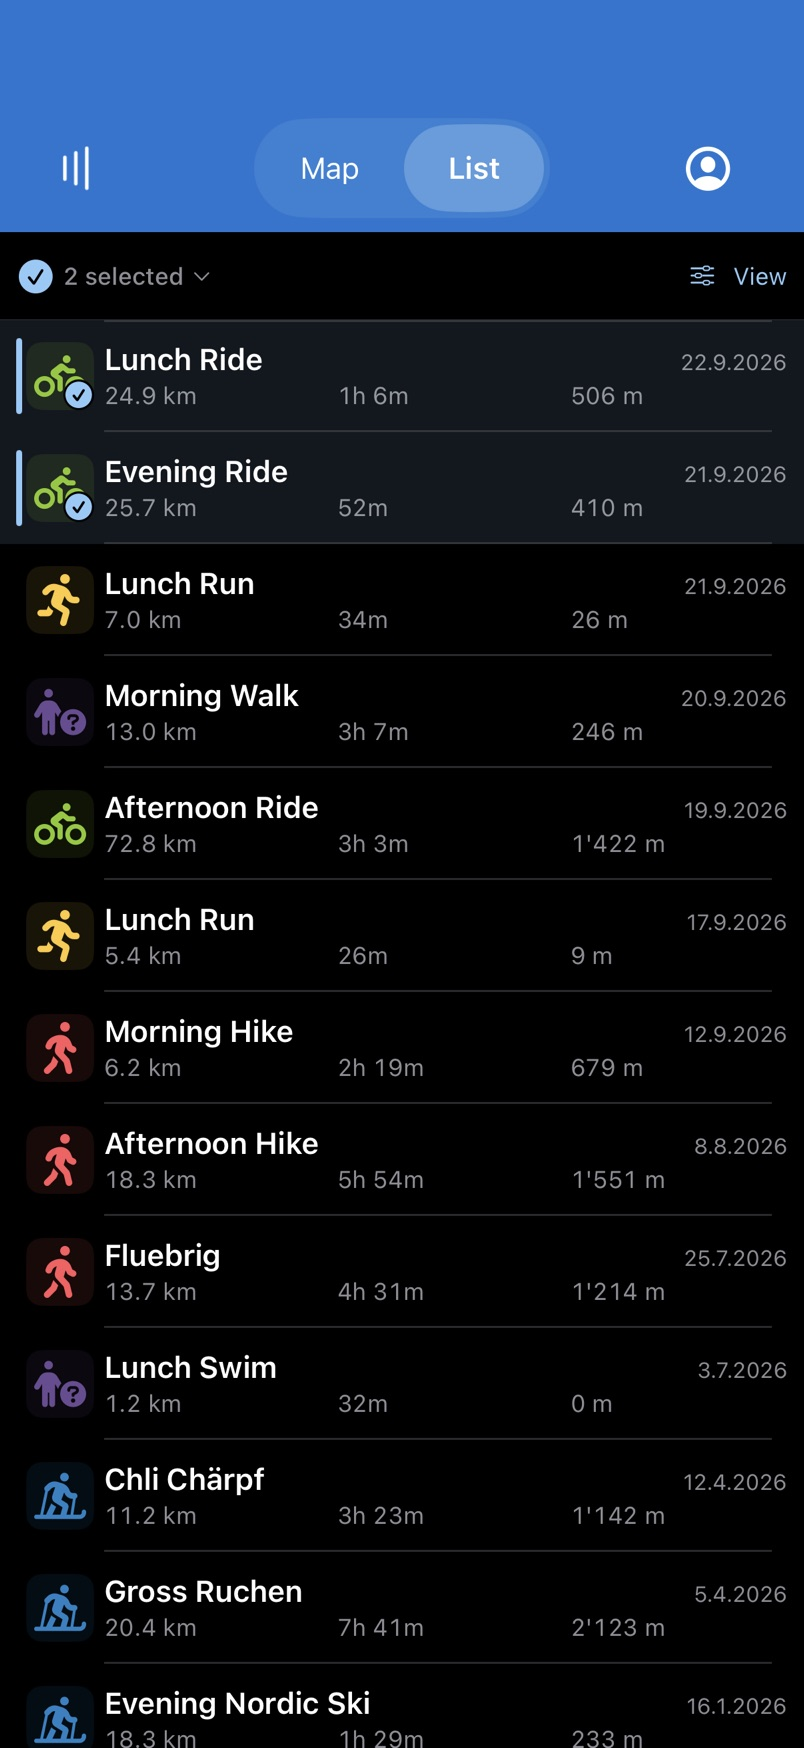
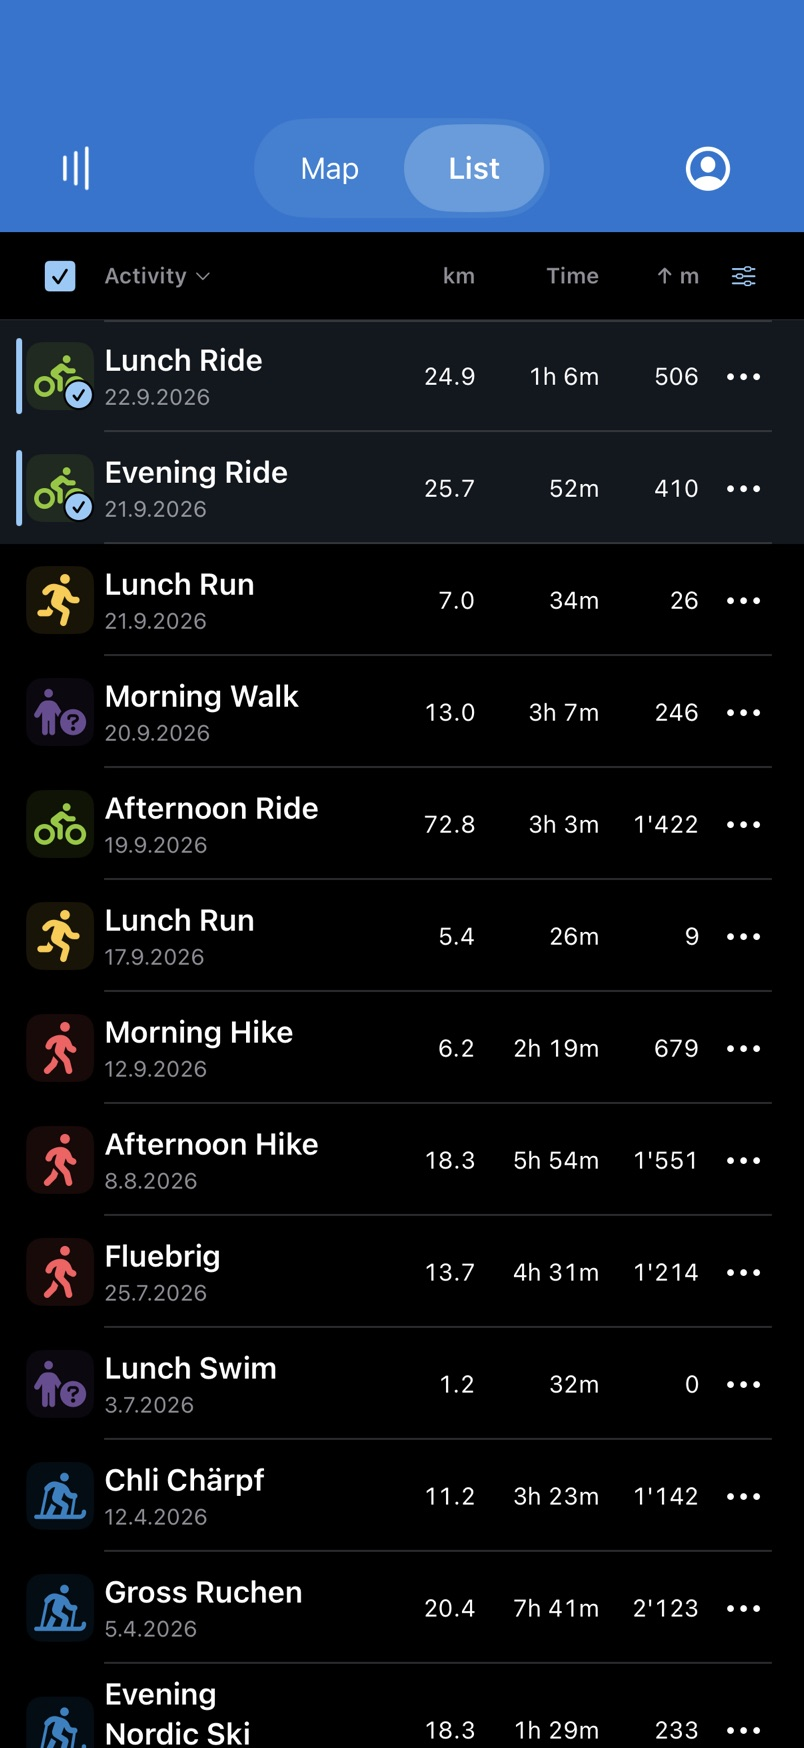
Restore direct column sorting on phone activity lists

diff --git a/ios/ActivityMap/ActivityMapTests/RenderedActivityListTests.swift b/ios/ActivityMap/ActivityMapTests/RenderedActivityListTests.swift
@@ -86,13 +86,11 @@ extension RenderedRoutePickingTests {
     }
 
     @Test(arguments: [375.0, 390.0, 402.0])
-    func phoneMetricChoicesUseRowsAndWideListsKeepColumns(width: Double) async throws {
+    func compactMetricPairsRetainTableColumns(width: Double) async throws {
         let presentation = ActivityListPresentation(defaults: nil)
-        #expect(!ActivityTableLayout.supports(presentation.settings, typeSize: .large, availableWidth: width))
-        #expect(ActivityTableLayout.supports(presentation.settings, typeSize: .large, availableWidth: 820))
+        #expect(ActivityTableLayout.supports(presentation.settings, typeSize: .large, availableWidth: width))
         presentation.settings.visibleMetrics = [.distance, .averageSpeed]
-        #expect(!ActivityTableLayout.supports(presentation.settings, typeSize: .large, availableWidth: width))
-        #expect(ActivityTableLayout.supports(presentation.settings, typeSize: .large, availableWidth: 820))
+        #expect(ActivityTableLayout.supports(presentation.settings, typeSize: .large, availableWidth: width))
         let store = ActivityStore(activities: try GalleryLibrary.load().activities, listPresentation: presentation)
         store.selectedTab = .list
         let host = try ListHarness(root: NavigationStack { ListScreen(store: store) },
@@ -108,28 +106,27 @@ extension RenderedRoutePickingTests {
         #expect(!ActivityTableLayout.supports(presentation.settings, typeSize: .large, availableWidth: width))
     }
 
-    @Test(arguments: [390.0, 820.0])
-    func listDisplaySheetSurvivesColumnLayoutChanges(width: Double) async throws {
+    @Test func listDisplaySheetSurvivesColumnLayoutChanges() async throws {
         let presentation = ActivityListPresentation(defaults: nil)
         let store = ActivityStore(activities: [ActivityStoreSelectionTests.activity(1)], listPresentation: presentation)
         store.selectedTab = .list
         let host = try ListHarness(root: NavigationStack {
             ListScreen(store: store, displayOpen: true)
-        }, size: CGSize(width: width, height: 844))
+        }, size: CGSize(width: 390, height: 844))
         defer { host.close() }
         try await listWait { host.host.presentedViewController != nil }
         let sheet = try #require(host.host.presentedViewController)
-        #expect(ActivityTableLayout.supports(presentation.settings, typeSize: .large, availableWidth: width) == (width >= 600))
-        presentation.settings.visibleMetrics = Set(ActivityListMetric.allCases)
+        #expect(ActivityTableLayout.supports(presentation.settings, typeSize: .large))
+        presentation.settings.visibleMetrics.insert(.maxPower)
         try await Task.sleep(for: .milliseconds(400))
-        #expect(!ActivityTableLayout.supports(presentation.settings, typeSize: .large, availableWidth: width))
+        #expect(!ActivityTableLayout.supports(presentation.settings, typeSize: .large))
         #expect(host.host.presentedViewController === sheet, "Changing header branch must retain the open display sheet")
         presentation.settings.visibleMetrics = []
         try await Task.sleep(for: .milliseconds(200))
         #expect(host.host.presentedViewController === sheet)
         presentation.settings.visibleMetrics = [.distance, .elapsedTime, .elevationGain]
         try await Task.sleep(for: .milliseconds(200))
-        #expect(ActivityTableLayout.supports(presentation.settings, typeSize: .large, availableWidth: width) == (width >= 600))
+        #expect(ActivityTableLayout.supports(presentation.settings, typeSize: .large))
         #expect(host.host.presentedViewController === sheet, "Restoring table columns must retain the same sheet")
         presentation.settings.width = .scrollingMetrics
         try await Task.sleep(for: .milliseconds(200))

diff --git a/ios/ActivityMap/ActivityMap/List/ListControls.swift b/ios/ActivityMap/ActivityMap/List/ListControls.swift
@@ -100,7 +100,7 @@ struct ListOptionsSheets: ViewModifier {
                             presentation.settings.width = .fitWidth
                         }
                     } header: { Text("Visible metrics") }
-                    footer: { Text("Name, sport and local date always stay visible. Fit Width uses compact name/date and metric rows on phones, and aligned columns on wider lists when the chosen metrics fit. Adding more metrics can switch to stacked rows. Scroll Metrics uses horizontally scrolling values in each row. Accessibility text uses stacked rows. Open Details to inspect hidden metrics.") }
+                    footer: { Text("Name, sport and local date always stay visible. Fit Width shows aligned sortable columns whenever the chosen metrics fit, including on phones. Adding more metrics can switch to stacked rows and remove the column headings. Scroll Metrics uses horizontally scrolling values in each row. Accessibility text uses stacked rows. Open Details to inspect hidden metrics.") }
                 }
                 .navigationTitle("List display")
                 .toolbar { ToolbarItem(placement: .confirmationAction) { Button("Done") { displayOpen = false } } }

diff --git a/ios/ActivityMap/ActivityMap/List/ActivityTableHeader.swift b/ios/ActivityMap/ActivityMap/List/ActivityTableHeader.swift
@@ -4,7 +4,7 @@ import SwiftUI
 enum ActivityTableLayout {
     static func supports(_ settings: ActivityListSettings, typeSize: DynamicTypeSize,
                          availableWidth: CGFloat = 390) -> Bool {
-        guard availableWidth >= 600, !typeSize.isAccessibilitySize, settings.width == .fitWidth,
+        guard !typeSize.isAccessibilitySize, settings.width == .fitWidth,
               !settings.visibleMetrics.isEmpty else { return false }
         // Preserve every configured metric. Fall back to the adaptive grid when
         // aligned columns would squeeze the activity name or clip their values.

diff --git a/docs/ios-list-density-review.md b/docs/ios-list-density-review.md
@@ -1,16 +1,16 @@
 # Activity-list density (#255)
 
-Baseline: merged main `c1e8e1d`. Phone rows now put the activity name/local date above aligned primary metric values. The sport badge retains its separate selection action and selected state. Default row spacing is reduced; comfortable density still permits wrapped names, while compact density remains available. No persisted preferences are changed.
+Baseline: merged main `c1e8e1d`. Default row spacing is reduced while preserving aligned columns and directly sortable column headers on phones and tablets whenever the configured metrics fit. Comfortable density still permits wrapped names, while compact density remains available. The sport badge retains its separate selection action and selected state. No persisted preferences are changed.
 
-Rows below 600pt use this layout; wider lists keep sortable table columns when configured metrics fit. Additional metric configurations retain labels and adaptive stacking. Accessibility text uses the existing full sport/date/time information and stacked labelled values. Unknown and recorded-zero formatting remain unchanged.
+Additional metric configurations retain adaptive stacking when columns cannot fit. Fallback rows place name/local date above aligned primary values; accessibility text keeps full sport/date/time information and stacked labelled values. Unknown and recorded-zero formatting remain unchanged.
 
-The repeated phone overflow button is removed. Tap inspects without selecting. Show on map is available through a non-full-swipe action, the native long-press menu and VoiceOver actions; GPS-less activities cannot issue it. Swipe actions are omitted in horizontally scrolling-metric mode to preserve that gesture. Wide table rows retain their visible actions menu. Phone headers now show selection/count actions and the single View menu for complete sort/column/density options; hidden selection remains disclosed there.
+Table rows retain their visible actions menu. Tap inspects without selecting. Show on map is also available through a non-full-swipe action, the native long-press menu and VoiceOver actions; GPS-less activities cannot issue it. Swipe actions are omitted in horizontally scrolling-metric mode to preserve that gesture. The View menu retains complete sort/column/density options, alongside the direct column sorting controls.
 
 Summaries were deliberately removed by the earlier `b0f5ddf` change. That behavior is preserved rather than reintroducing the stale summary scope in #255. No map-sheet transition work (#284/#285), tablet detail-host redesign (#273), or navigation sizing change is included.
 
 ## Matched screenshots
 
-Eight scenes per revision use the same 20-activity fixture. The 402×874 default phone capture shows about one additional complete row (12 instead of 11), plus the next partial row. This is a comparison against the current merged UI, which had already improved on the issue’s original nine-row baseline. Long names and large text may naturally use more height.
+Eight scenes per revision use the same 20-activity fixture. Screenshots compare the current merged UI with reduced row padding and restored sortable headers. Long names and large text may naturally use more height.
 
 | Variant | Before | After |
 | --- | --- | --- |
@@ -21,8 +21,8 @@ Eight scenes per revision use the same 20-activity fixture. The 402×874 default
 
 ## Validation
 
-Full simulator suite: **218 tests passed (348 parameterized runs), zero failures**, two opt-in tests skipped. Existing display-sheet coverage now exercises phone and wide layouts, including switching between table/grid while the sheet stays mounted. Coverage includes sorting, preference persistence, null/zero metrics, independent inspection/selection and exact scroll retention with 2,000 lazy rows.
+After restoring phone headers, targeted simulator suites passed: **40 tests (109 parameterized runs), zero failures**. Coverage includes phone column fit, display-sheet retention across layout changes, sorting, preference persistence, null/zero metrics, independent inspection/selection and exact scroll retention with 2,000 lazy rows.
 
-Result: `/tmp/activitymap-navigation-build/Logs/Test/Test-ActivityMap-2026.10.03_09-43-39-+0200.xcresult`. Both eight-capture galleries validated; phone light/dark and large-text captures visually inspected. `git diff --check` passed. Simulator evidence does not replace physical-device touch/VoiceOver acceptance.
+Result: `/tmp/activitymap-navigation-build/Logs/Test/Test-ActivityMap-2026.10.03_09-50-53-+0200.xcresult`. The earlier iteration also passed the full suite (218 tests, 348 runs); current screenshots and targeted results supersede that iteration's phone layout. Simulator evidence does not replace physical-device touch/VoiceOver acceptance.
 
 Reproduce: `scripts/ios-gallery.sh list-density-review --scene list,list-detail --variant phone,phone-dark,small-large-text,tablet`.

diff --git a/docs/ios-ui-components.md b/docs/ios-ui-components.md
@@ -40,7 +40,7 @@ This section describes `main` after #270 and #278. Later sections record the #27
 
 ### List
 
-The live `ActivityRowView` uses a selectable sport badge and an independent inspection target. Below 600pt, name/local date sit above aligned primary metric values; additional metrics and accessibility text stack with labels. Phone rows omit the repeated overflow button: Show on map remains available by swipe, long-press menu and VoiceOver action. Scrolling-metric mode omits row swipes to preserve horizontal scrolling. Wider lists retain aligned sortable table columns and a visible actions menu when configured metrics fit. Selection/count actions and the View menu retain complete sort, metric, width and density settings. No saved preferences change. The previously removed summary UI stays removed. See `docs/ios-list-density-review.md` for matched #255 evidence.
+The live `ActivityRowView` uses a selectable sport badge and an independent inspection target. Phones and wider lists retain aligned sortable table columns and a visible actions menu whenever configured metrics fit. Reduced row padding improves density. Fallback rows place name/local date above primary metric values; additional metrics and accessibility text stack with labels. Show on map is available by swipe, long-press menu and VoiceOver action. Scrolling-metric mode omits row swipes to preserve horizontal scrolling. Selection/count actions and the View menu retain complete sort, metric, width and density settings. No saved preferences change. The previously removed summary UI stays removed. See `docs/ios-list-density-review.md` for matched #255 evidence.
 
 The selection/Sort/Columns toolbar uses an opaque system background matching the table header (#278 replaced the earlier thin-material glass). Totals and the totals display picker are deferred, including for existing saved preferences. Filter and sort snapshots are keyed by data/filter/sort changes, and immutable date formatters are cached by locale/timezone/template. Inspection, selection and native navigation do not re-filter or re-sort the library.
 
